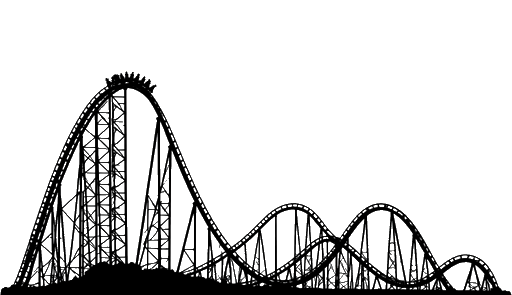
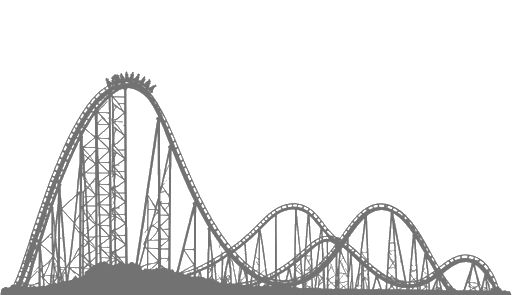
Added background coaster to skyline

Changed region(s): [[0.0, 0.2441, 1.0, 1.0]]

diff --git a/public/js/skyline-renderer.js b/public/js/skyline-renderer.js
@@ -1,3 +1,14 @@
+// Background images drawn behind the buildings.
+// Each entry: { src, x, yFromGround, width }
+//   src          – path relative to the HTML page (e.g. 'img/coaster.png')
+//   x            – left edge of the image as a fraction of canvas width (0–1)
+//   yFromGround  – bottom edge of the image as a fraction of canvas height
+//                  above the ground line (0 = sits on ground)
+//   width        – image width as a fraction of canvas width
+const BACKGROUND_IMAGES = [
+  { src: 'img/coaster.png', x: 0.72, yFromGround: 0, width: 0.22 },
+];
+
 class SkylineRenderer {
   constructor(canvas) {
     this.canvas = canvas;
@@ -5,7 +16,15 @@ class SkylineRenderer {
     this.students = [];
     this.totalLevels = 10;
     this.selectedStudent = null;
-    
+
+    // Preload background images
+    this.bgImages = BACKGROUND_IMAGES.map(cfg => {
+      const img = new Image();
+      img.src = cfg.src;
+      img.onload = () => this.draw();
+      return { cfg, img };
+    });
+
     // Set up canvas sizing
     this.resize();
     window.addEventListener('resize', () => this.resize());
@@ -44,12 +63,17 @@ class SkylineRenderer {
     this.ctx.fillRect(0, 0, this.width, this.height);
 
     if (this.students.length === 0) {
+      this.drawBackgroundImages(40);
       this.drawEmptyState();
       return;
     }
 
-    // Draw ground
+    // Draw background images (behind buildings)
     const groundHeight = 40;
+    this.drawBackgroundImages(groundHeight);
+
+    // Draw ground
+    // (groundHeight already defined above)
     this.ctx.fillStyle = '#2d3436';
     this.ctx.fillRect(0, this.height - groundHeight, this.width, groundHeight);
 
@@ -146,6 +170,18 @@ class SkylineRenderer {
     this.ctx.textAlign = 'center';
     this.ctx.textBaseline = 'top';
     this.ctx.fillText('Our City Skyline', this.width / 2, 20);
+  }
+
+  drawBackgroundImages(groundHeight) {
+    for (const { cfg, img } of this.bgImages) {
+      if (!img.complete || img.naturalWidth === 0) continue;
+      const imgW = cfg.width * this.width;
+      const imgH = imgW * (img.naturalHeight / img.naturalWidth);
+      const imgX = cfg.x * this.width;
+      const groundY = this.height - groundHeight;
+      const imgY = groundY - imgH - cfg.yFromGround * this.height;
+      this.ctx.drawImage(img, imgX, imgY, imgW, imgH);
+    }
   }
 
   drawEmptyState() {
